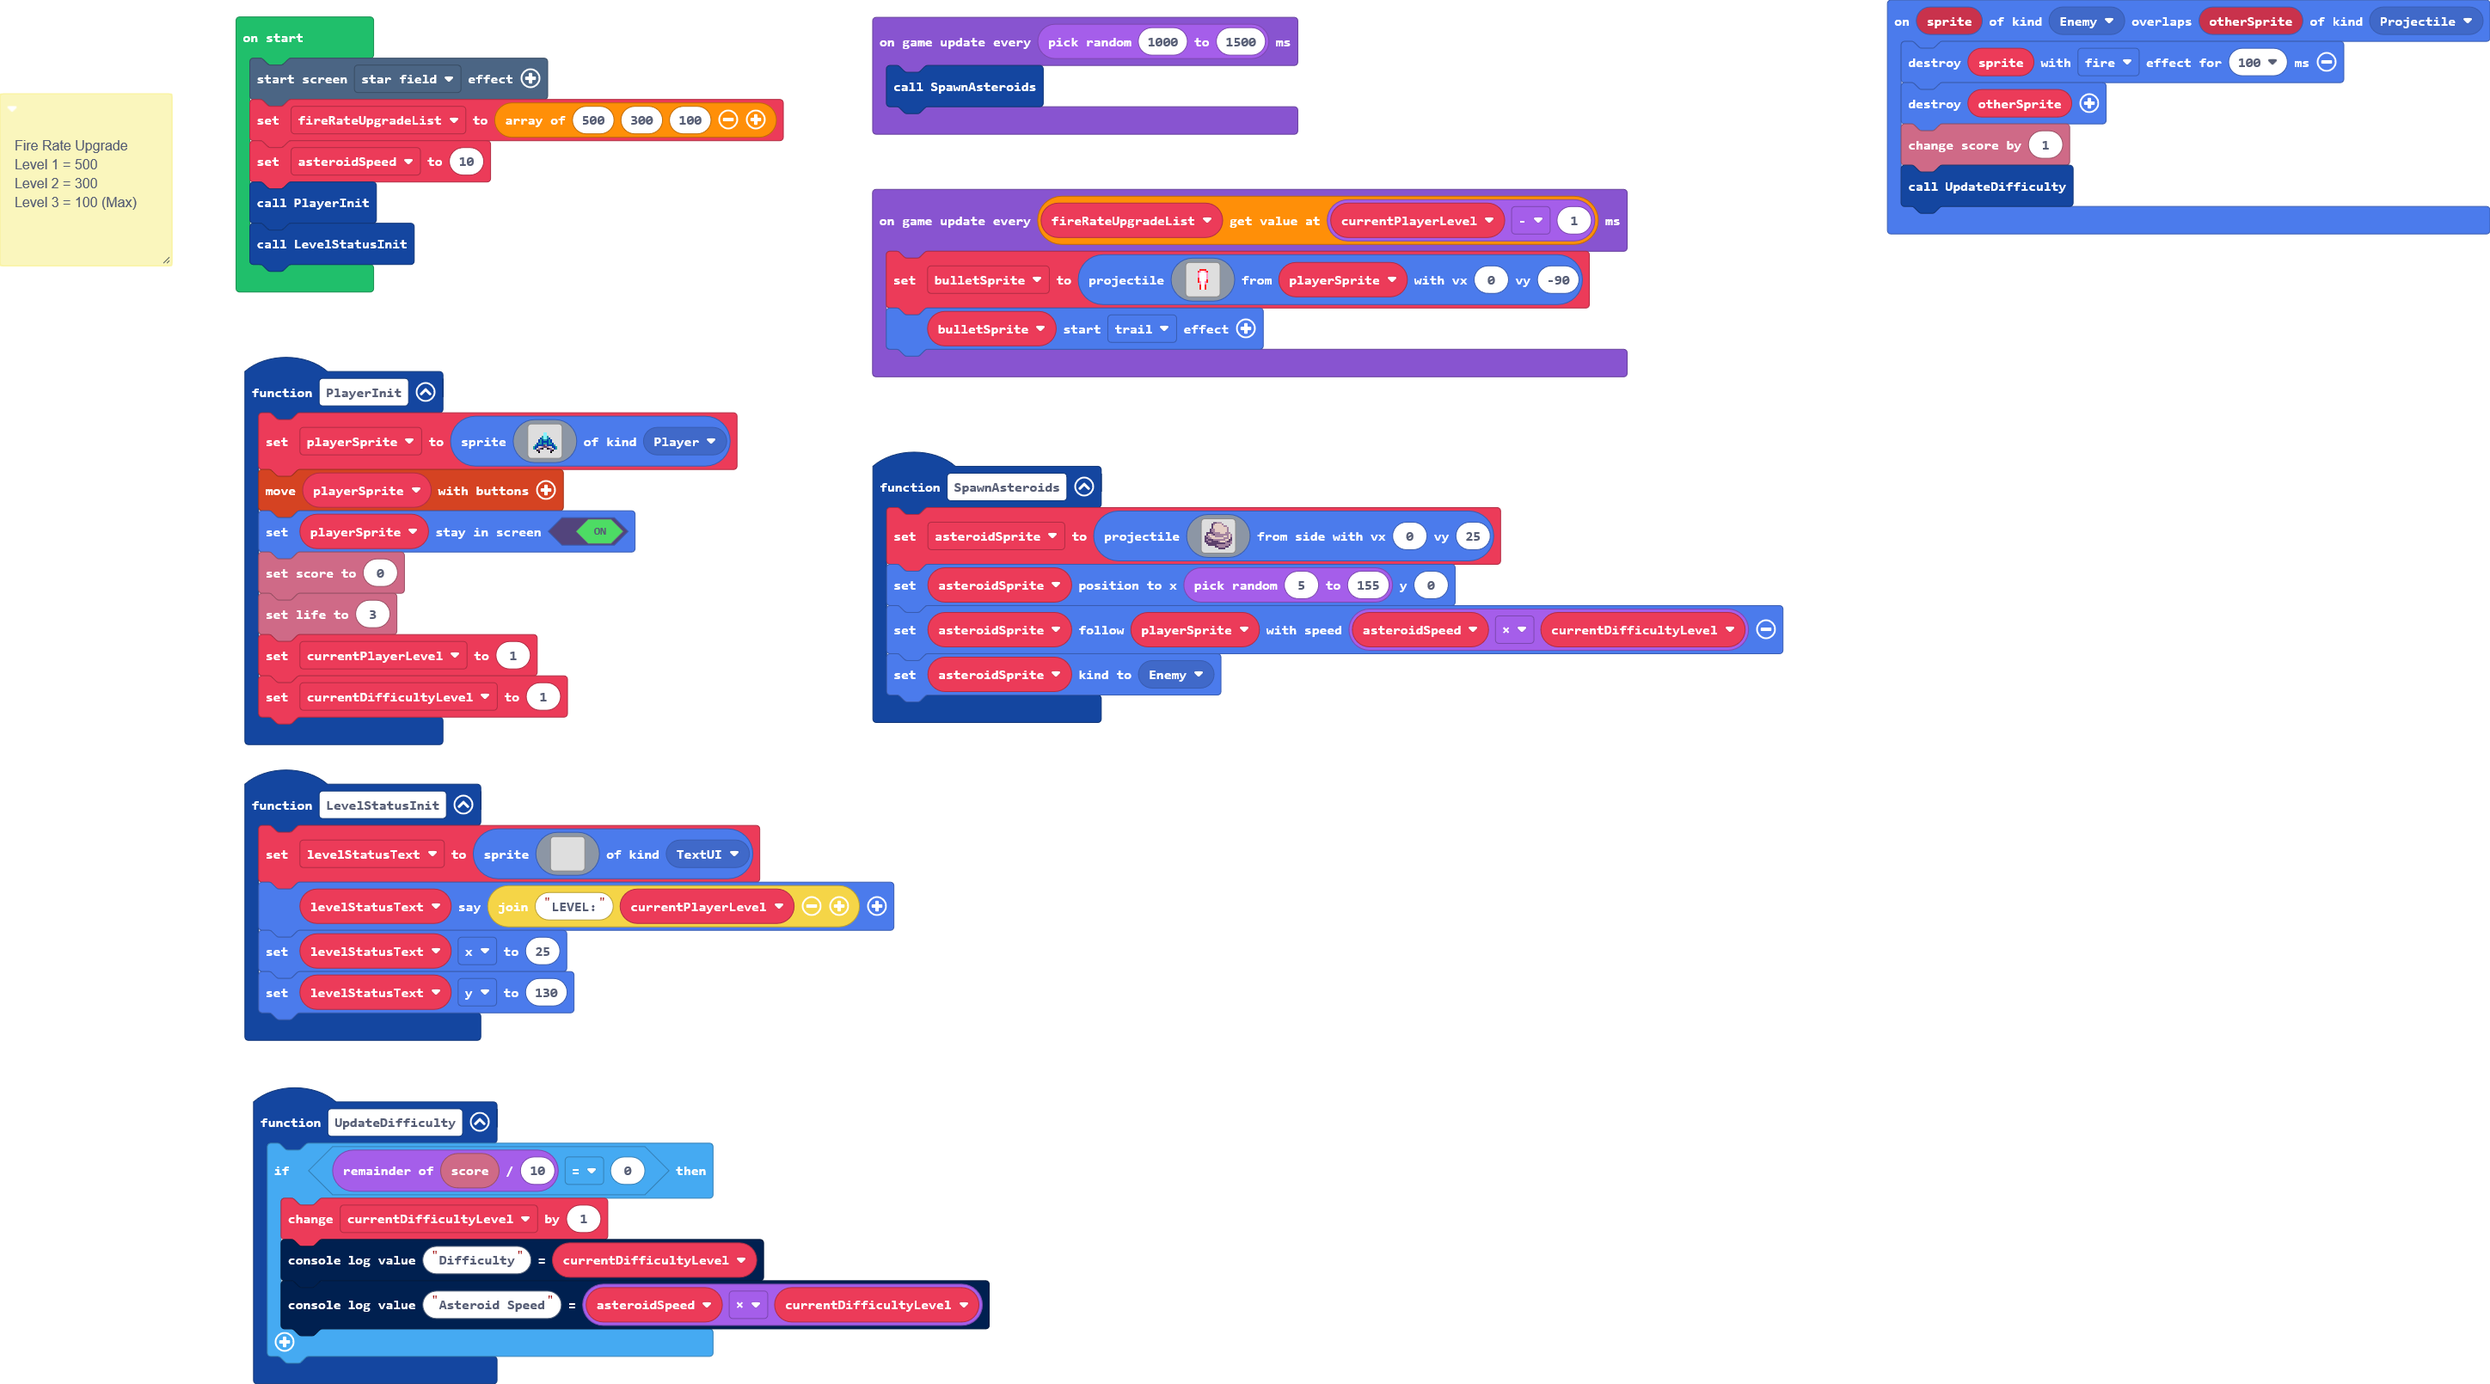
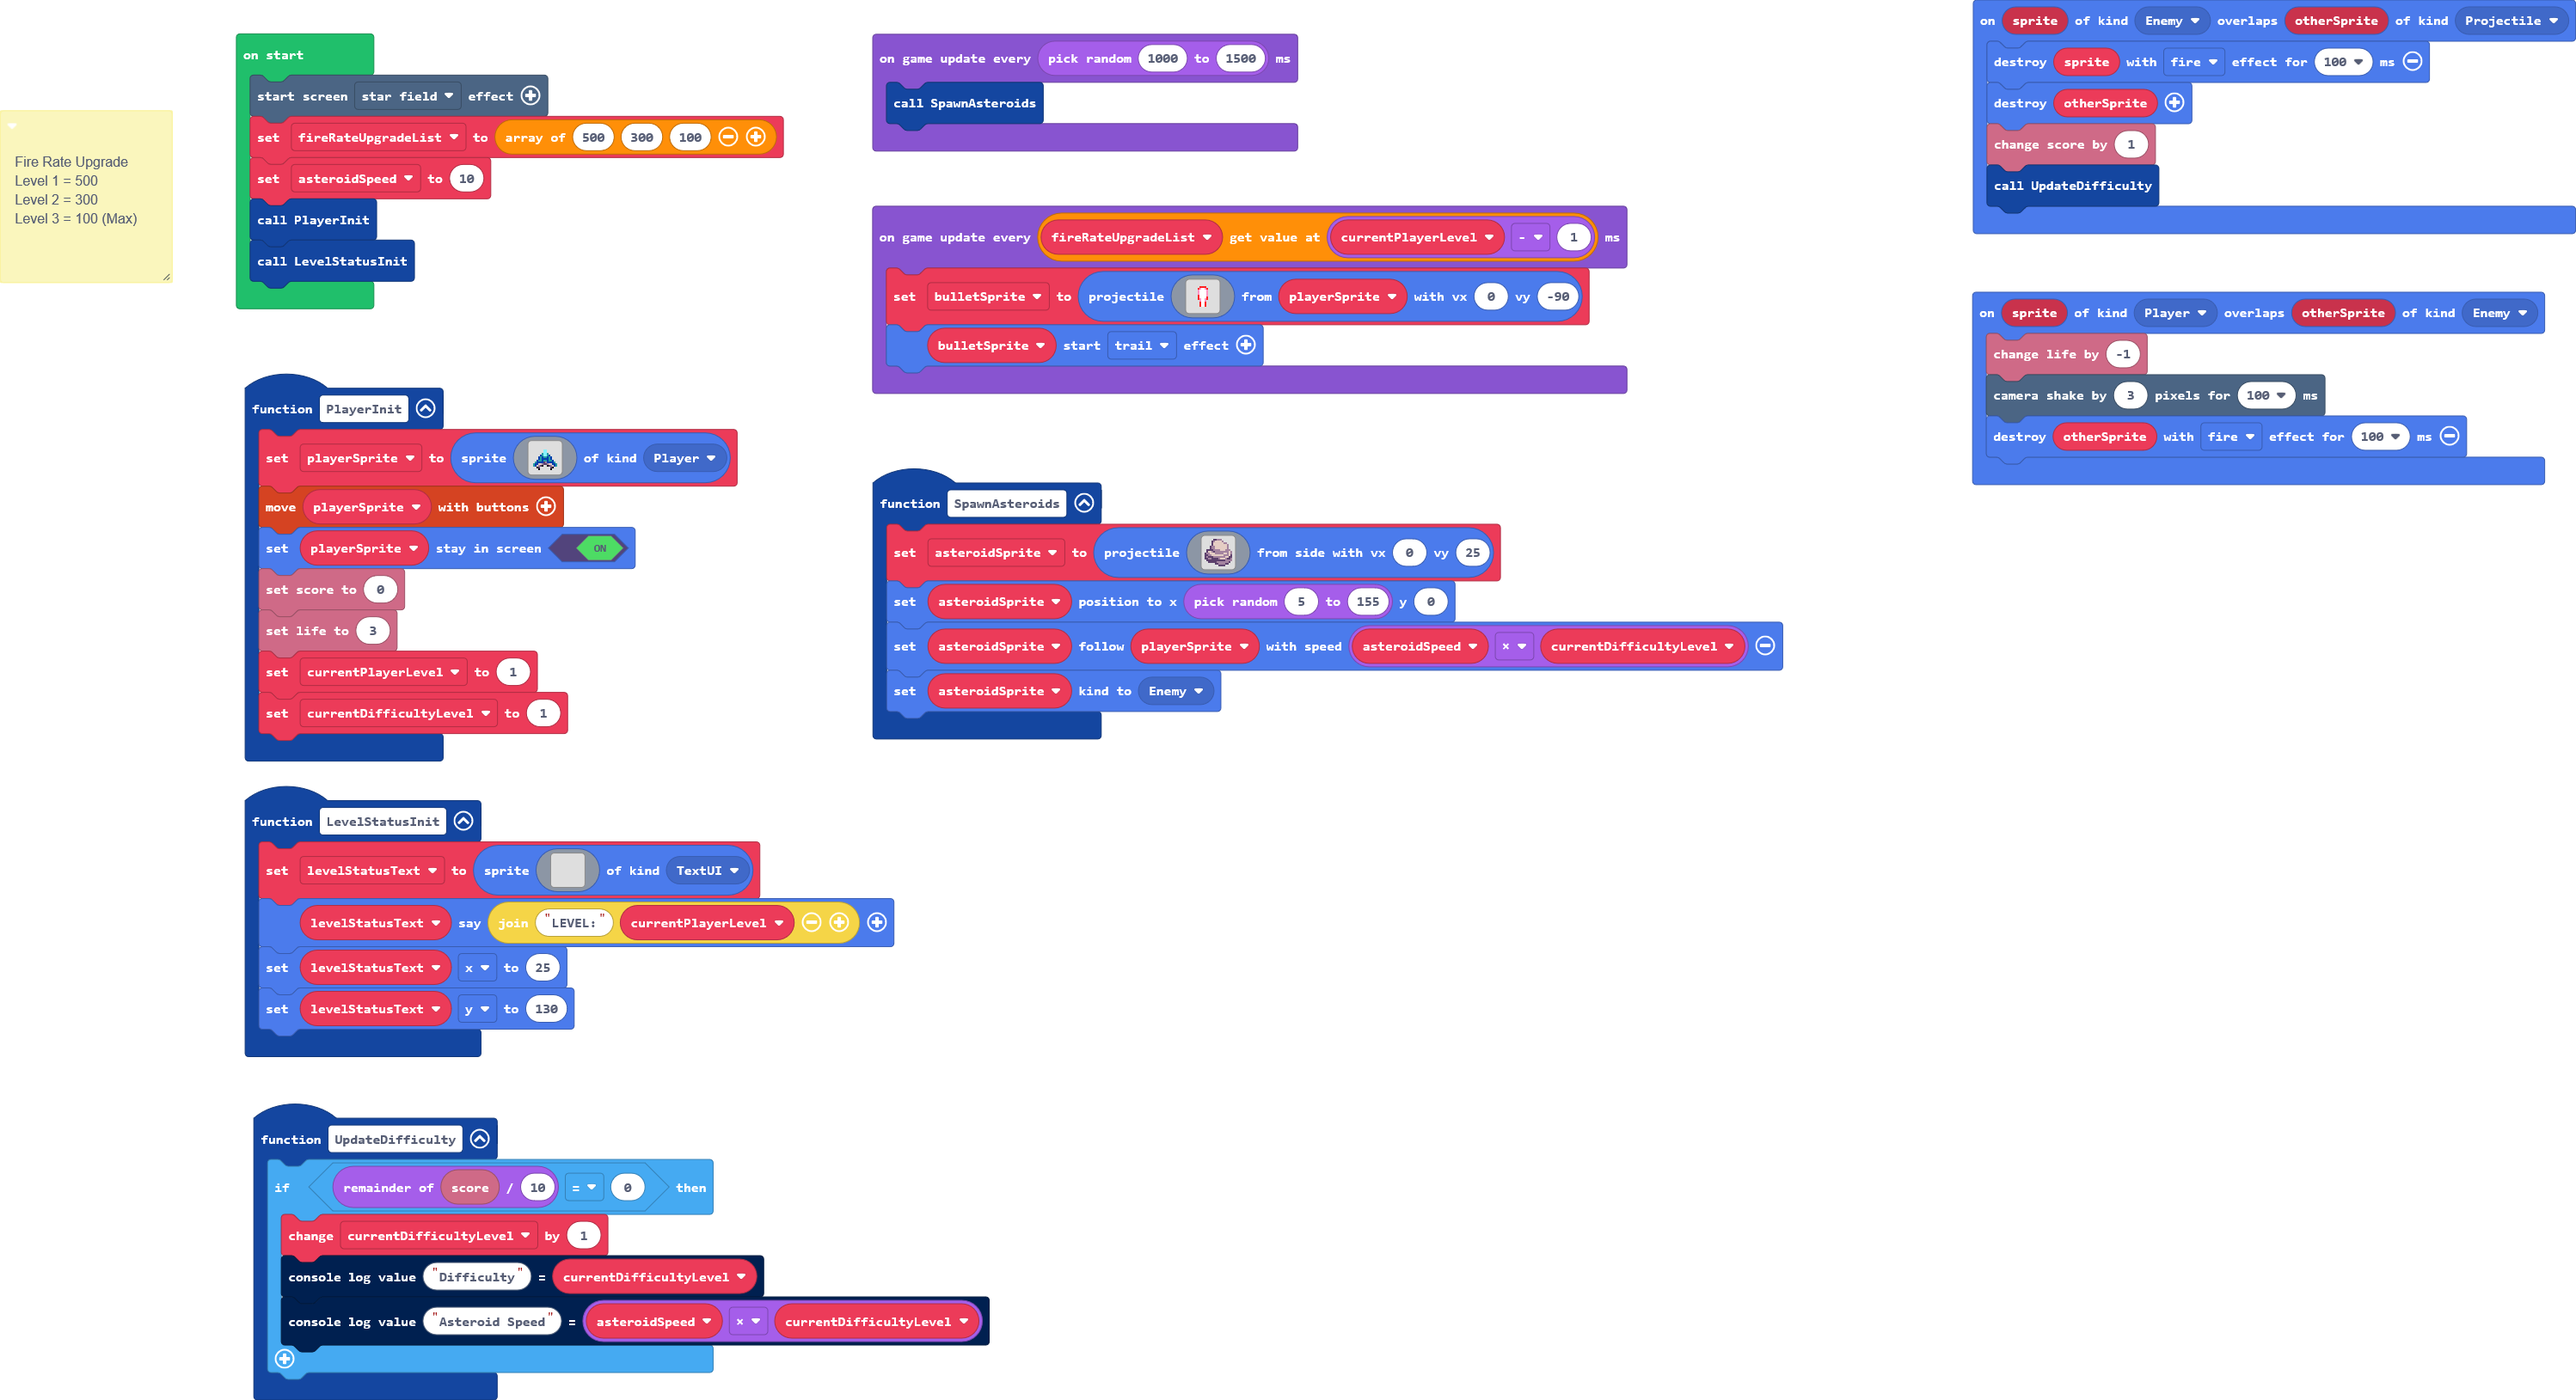
Player take damage

diff --git a/main.ts b/main.ts
@@ -95,6 +95,11 @@ function LevelStatusInit () {
     levelStatusText.x = 25
     levelStatusText.y = 130
 }
+sprites.onOverlap(SpriteKind.Player, SpriteKind.Enemy, function (sprite, otherSprite) {
+    info.changeLifeBy(-1)
+    scene.cameraShake(3, 100)
+    sprites.destroy(otherSprite, effects.fire, 100)
+})
 let bulletSprite: Sprite = null
 let levelStatusText: Sprite = null
 let currentPlayerLevel = 0
